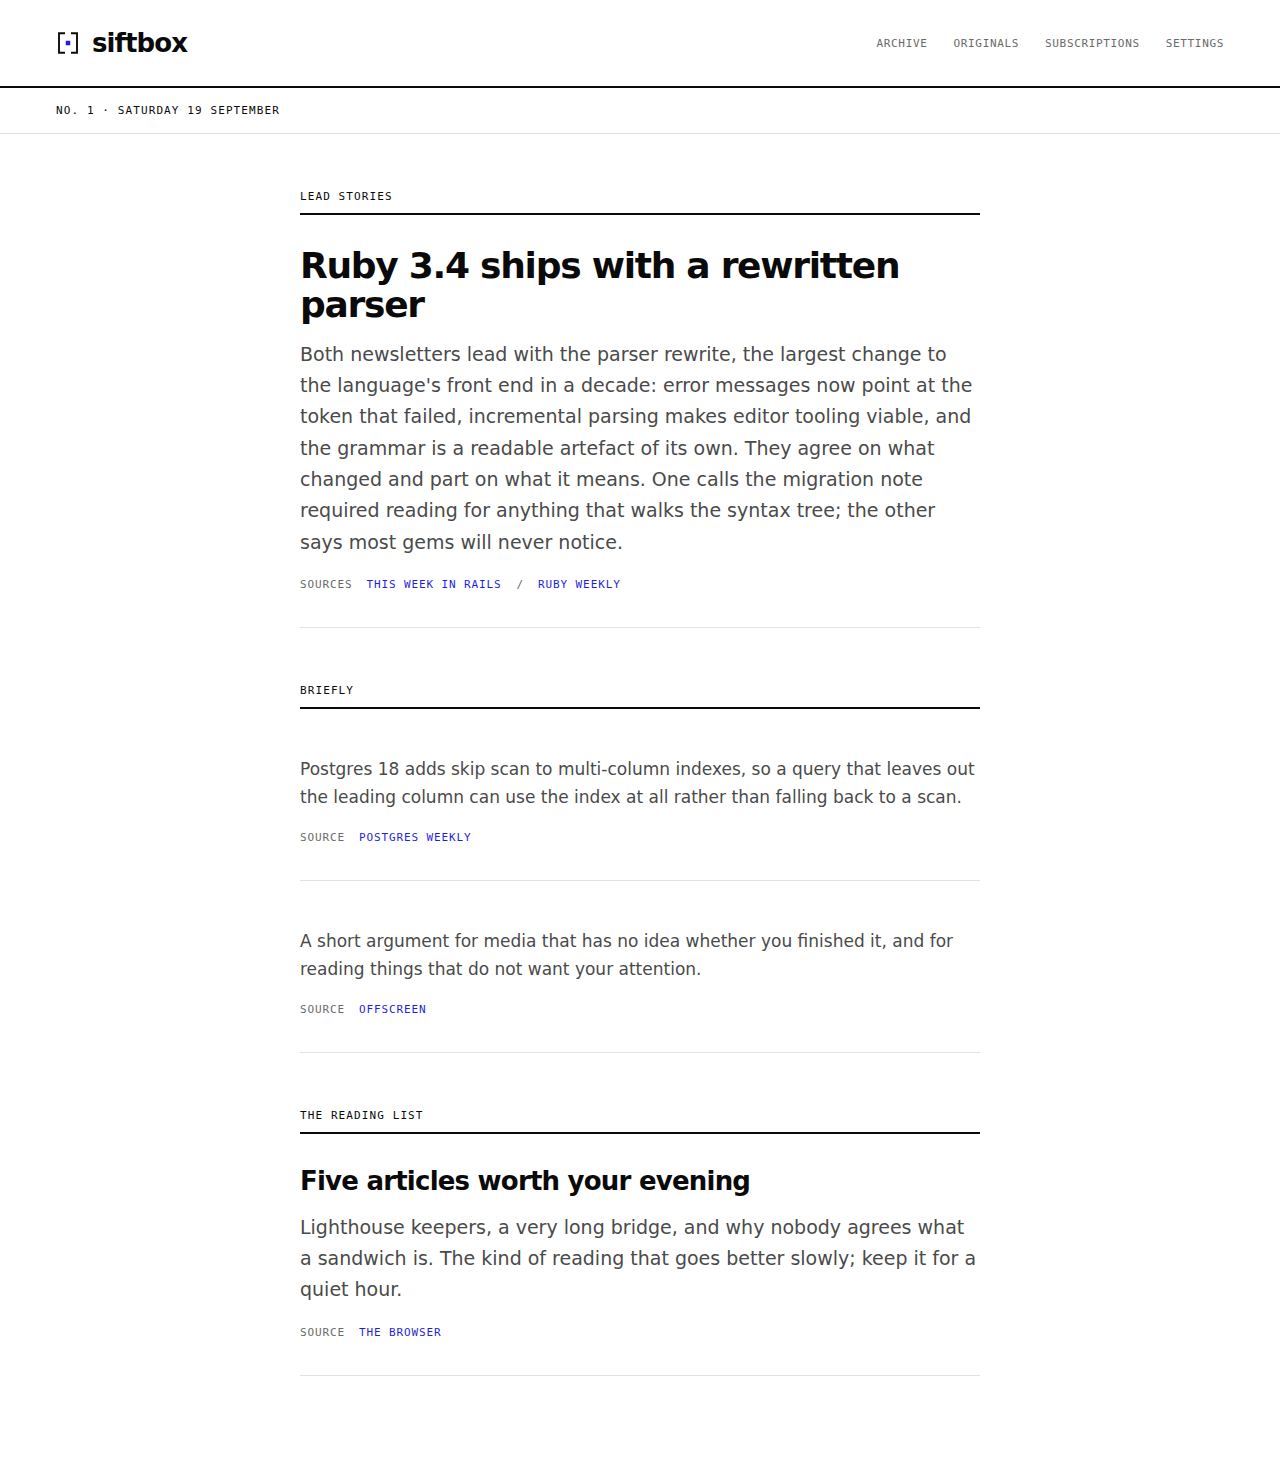
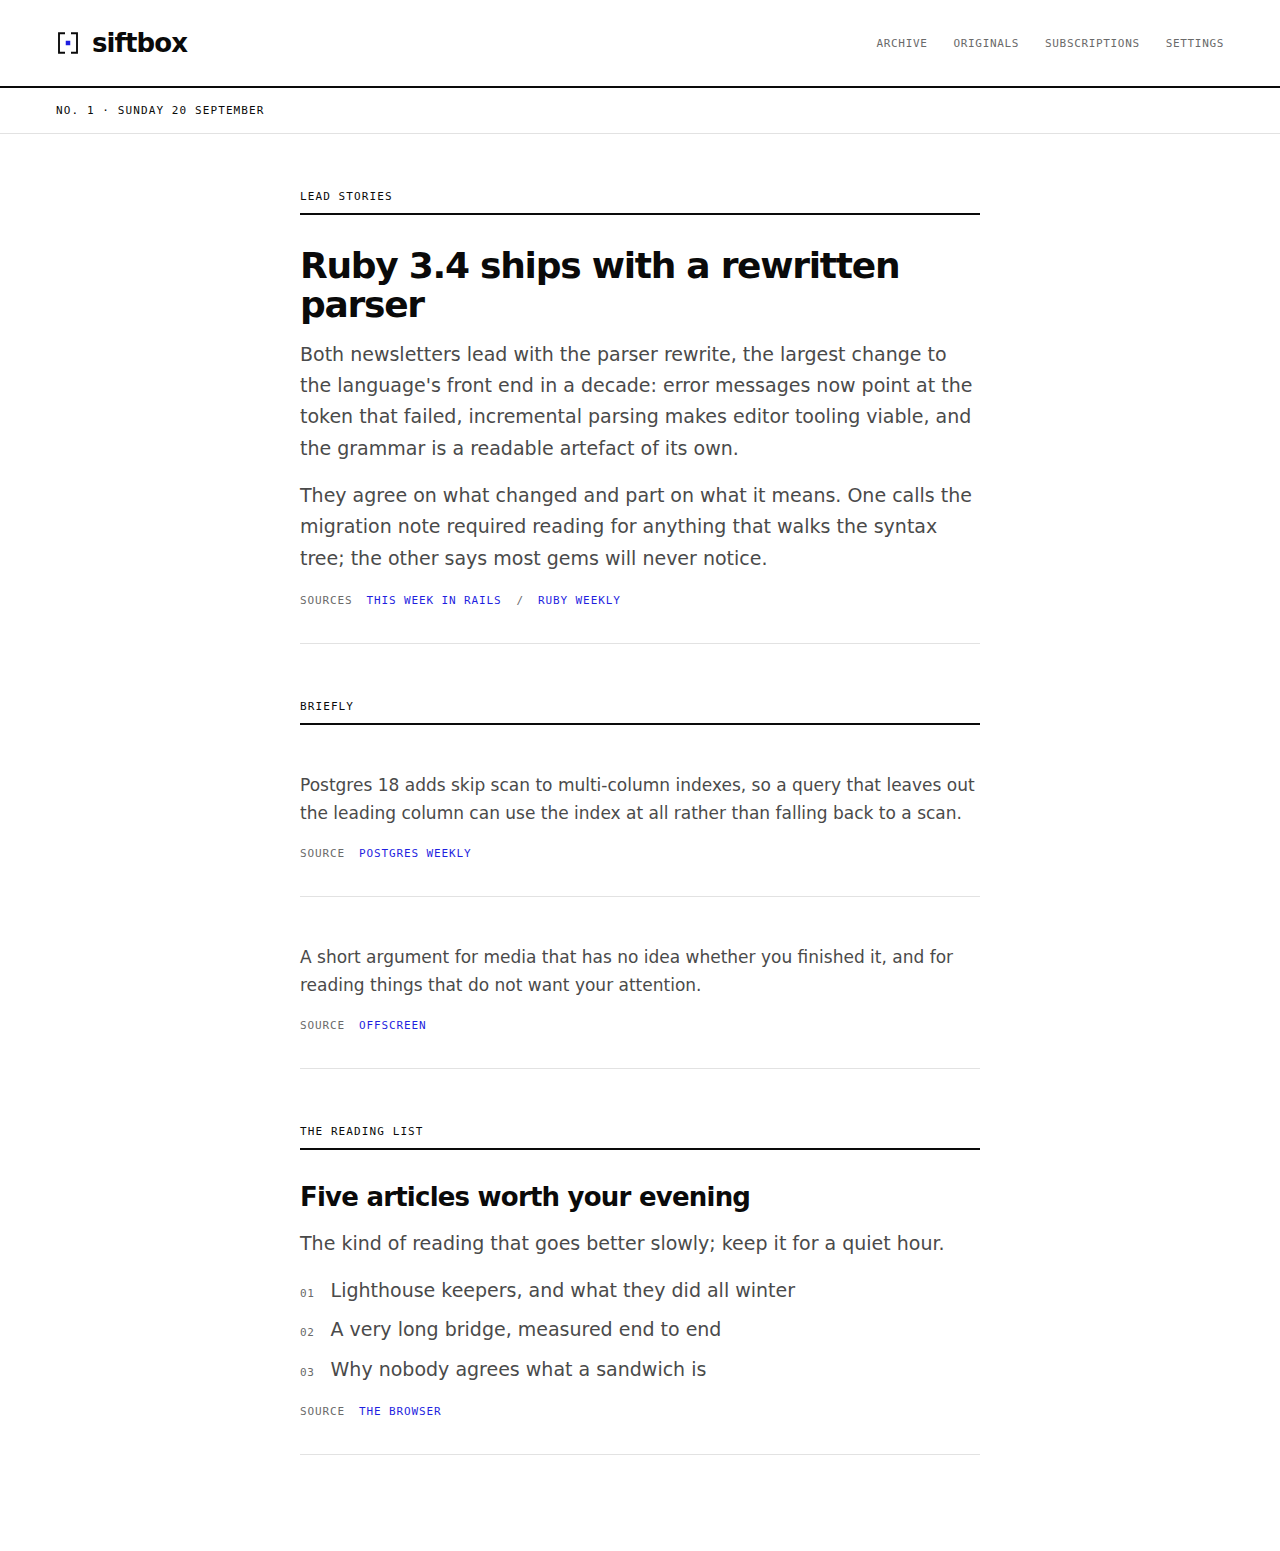
Fix six findings from the review of the open-sourcing work (#58)
The serious one was in the deploy runbook. It told the operator that the old
secret_key_base could not be recovered once the credentials file was gone,
and said ten lines later that the master key could go. Both halves are wrong
in the same direction: the encrypted blob is still in git history and
decrypts with that key, so following the page in order is what destroys the
value, and the cost is the only reader signed out of an app with no sign-up
flow. The step now gives both recovery paths and an explicit ordering, with
the key going last.

SampleEdition had no guard of its own, only on its rake task, while lib/ is
eager loaded, so a production console could have written a fabricated
edition into the live archive under the next real number.

The sample edition also miscited: its lead story said both sources led with
the parser rewrite, and the second was about Solid Queue. That edition is
the README's screenshot, on a project whose claim is that every story traces
back to its sources. The second newsletter now covers the same release from
the Rails side, and the screenshot is regenerated from it.

Also: both halves of the credentials pair are ignored again, for the two
different reasons the comment now gives; four hand-rolled copies of the same
ENV set-and-restore helper became one, and one of them had no ensure at all;
and the deploy config no longer claims every SIFTBOX_* value is a
placeholder when the time zone deliberately is not.
[…]

diff --git a/lib/sample_edition.rb b/lib/sample_edition.rb
@@ -15,8 +15,19 @@
 # citations and all, and one save!, so there is no moment at which an
 # edition exists without its stories.
 #
-# Development material. Nothing the reader's browser reaches calls it.
+# Development material. Nothing the reader's browser reaches calls it, and
+# #write refuses anywhere but development or test.
 class SampleEdition
+  # What a call from anywhere but development or test gets. config.autoload_lib
+  # puts lib/ on the eager-load path, so this class is resident in every
+  # production process however development-only the task that calls it is, and
+  # a console there is one line from filing a fabricated edition in the live
+  # archive — taking the next real edition number and the day's unique
+  # published_on with it, so the morning's real edition cannot be written at
+  # all. lib/tasks/sample_data.rake keeps its own guard; a guard the class
+  # carries holds wherever it is called from instead.
+  class OutsideDevelopment < StandardError; end
+
   # Which newsletters each story cites, by position in the list the task
   # creates: the lead reads the first two, which both carry the parser
   # release; each Briefly line reads one; the reading list entry reads the
@@ -72,6 +83,8 @@ class SampleEdition
   end
 
   def write
+    refuse_outside_development
+
     edition = Edition.new(identity.merge(PROVENANCE))
     stories.each_with_index { |story, index| build(edition, story, index + 1) }
 
@@ -82,6 +95,14 @@ class SampleEdition
   private
 
   attr_reader :newsletters
+
+  # local? rather than development?, because the suite is where the refusal
+  # is proved and the class has to be able to write inside it.
+  def refuse_outside_development
+    return if Rails.env.local?
+
+    raise OutsideDevelopment, "sample editions are development material"
+  end
 
   # STORIES, once it is known to cover the list it was handed. The coupling
   # is by position across two files, so a newsletter added to the task's

diff --git a/spec/requests/action_mailbox_ingress_spec.rb b/spec/requests/action_mailbox_ingress_spec.rb
@@ -23,30 +23,22 @@ RSpec.describe "Action Mailbox ingress" do
   #
   # The ingress stores the message and enqueues routing rather than routing
   # inline, so the job has to run for a Newsletter to exist.
-  def armed(&delivery)
-    ActionMailbox.ingress = :postmark
-
-    with_ingress_password("ingress-password") do
-      perform_enqueued_jobs(&delivery)
-    end
-  ensure
-    ActionMailbox.ingress = nil
-  end
-
+  #
   # Action Mailbox still reads action_mailbox.ingress_password first and only
   # falls back to RAILS_INBOUND_EMAIL_PASSWORD, but there are no credentials to
   # hold one any more, so the fallback is the whole mechanism and the variable
   # is what decides in production too. It is read per request, so a value set
   # for the example's duration is what the controller authenticates against.
-  # Set and put back rather than stubbed, the way `through` does in
-  # spec/jobs/edition/composition_job_spec.rb: ENV is process-wide.
-  def with_ingress_password(password)
-    original = ENV["RAILS_INBOUND_EMAIL_PASSWORD"]
-    ENV["RAILS_INBOUND_EMAIL_PASSWORD"] = password
+  # Set and put back rather than stubbed, through
+  # spec/support/environment_helper.rb: ENV is process-wide.
+  def armed(&delivery)
+    ActionMailbox.ingress = :postmark
 
-    yield
+    with_environment("RAILS_INBOUND_EMAIL_PASSWORD" => "ingress-password") do
+      perform_enqueued_jobs(&delivery)
+    end
   ensure
-    ENV["RAILS_INBOUND_EMAIL_PASSWORD"] = original
+    ActionMailbox.ingress = nil
   end
 
   it "turns an authenticated Postmark delivery into a newsletter" do

diff --git a/spec/db/seeds_spec.rb b/spec/db/seeds_spec.rb
@@ -6,20 +6,15 @@ require "rails_helper"
 RSpec.describe "db/seeds" do
   # The seeds read the two variables as they run, so a value set for the
   # example's duration is what they see. Set and put back rather than stubbed,
-  # the way `through` does in spec/jobs/edition/composition_job_spec.rb: ENV is
-  # process-wide, and an example that left a reader behind would decide what
-  # every later one seeds. Assigning nil deletes the variable, which is how the
-  # absent cases are written.
-  def with_reader(email_address:, password:)
-    original_email_address = ENV["SIFTBOX_READER_EMAIL"]
-    original_password = ENV["SIFTBOX_READER_PASSWORD"]
-    ENV["SIFTBOX_READER_EMAIL"] = email_address
-    ENV["SIFTBOX_READER_PASSWORD"] = password
-
-    yield
-  ensure
-    ENV["SIFTBOX_READER_EMAIL"] = original_email_address
-    ENV["SIFTBOX_READER_PASSWORD"] = original_password
+  # through spec/support/environment_helper.rb, which is where the putting back
+  # lives: ENV is process-wide, and an example that left a reader behind would
+  # decide what every later one seeds. nil is how the absent cases are written.
+  def with_reader(email_address:, password:, &seeding)
+    with_environment(
+      "SIFTBOX_READER_EMAIL" => email_address,
+      "SIFTBOX_READER_PASSWORD" => password,
+      &seeding
+    )
   end
 
   # Seeds report to stdout, which is worth having during a deploy and not in

diff --git a/spec/support/environment_helper.rb b/spec/support/environment_helper.rb
@@ -1,0 +1,26 @@
+# Sets environment variables for the length of a block and puts them back
+# afterwards, whatever the block does.
+#
+# ENV is process-wide and the suite is one process, so a variable an example
+# sets and fails to restore decides what every example after it sees — a
+# reader seeded into the wrong database, a key present where the example
+# wanted it absent. Four specs each carried their own copy of this, which was
+# four ensure blocks to get wrong; this is the one of them.
+#
+# Assigning nil deletes the variable, which is both how an example asks for
+# one to be absent and how a variable that was absent to begin with is put
+# back.
+module EnvironmentHelper
+  def with_environment(values)
+    originals = values.keys.index_with { |name| ENV[name] }
+    values.each { |name, value| ENV[name] = value }
+
+    yield
+  ensure
+    originals.each { |name, value| ENV[name] = value }
+  end
+end
+
+RSpec.configure do |config|
+  config.include EnvironmentHelper
+end

diff --git a/spec/lib/sample_edition_spec.rb b/spec/lib/sample_edition_spec.rb
@@ -42,6 +42,18 @@ RSpec.describe SampleEdition do
       .to match_array(Edition::Story::SECTIONS)
   end
 
+  # The class is eager-loaded in production whatever calls it, so the refusal
+  # is the only thing between a console there and a fabricated edition in the
+  # live archive. SampleEdition::OutsideDevelopment says what that costs.
+  it "refuses to write anywhere but a local environment" do
+    newsletters = sample_newsletters(5)
+    allow(Rails).to receive(:env)
+      .and_return(ActiveSupport::EnvironmentInquirer.new("production"))
+
+    expect { SampleEdition.new(newsletters).write }
+      .to raise_error(SampleEdition::OutsideDevelopment)
+  end
+
   # The one column that says how an edition came to read this way. A row the
   # model never wrote must never claim a model wrote it.
   it "marks the edition as a sample" do

diff --git a/spec/jobs/edition/composition_job_spec.rb b/spec/jobs/edition/composition_job_spec.rb
@@ -47,14 +47,10 @@ RSpec.describe Edition::CompositionJob do
   # back because Edition::Draft reads it on the way to building the client it
   # is about to be given instead, and it fetches rather than reads: absent, as
   # it is here, the example fails on a KeyError about the variable.
-  def through(client)
-    key = ENV["ANTHROPIC_API_KEY"]
-    ENV["ANTHROPIC_API_KEY"] = "not-a-key"
+  def through(client, &composing)
     allow(Anthropic::Client).to receive(:new).and_return(client)
 
-    yield
-  ensure
-    ENV["ANTHROPIC_API_KEY"] = key
+    with_environment("ANTHROPIC_API_KEY" => "not-a-key", &composing)
   end
 
   it "publishes an edition covering the newsletters that have arrived" do

diff --git a/spec/models/edition/draft_spec.rb b/spec/models/edition/draft_spec.rb
@@ -202,11 +202,10 @@ RSpec.describe Edition::Draft do
   # suite included. Read where it is used, a missing key is one job failing
   # with the name of the variable it wanted.
   it "looks the API key up where it uses it, not when it is built" do
-    key = ENV.delete("ANTHROPIC_API_KEY")
     draft = Edition::Draft.new(Edition::Prompt.new(newsletters))
 
-    expect { draft.write }.to raise_error(KeyError, /ANTHROPIC_API_KEY/)
-
-    ENV["ANTHROPIC_API_KEY"] = key
+    with_environment("ANTHROPIC_API_KEY" => nil) do
+      expect { draft.write }.to raise_error(KeyError, /ANTHROPIC_API_KEY/)
+    end
   end
 end

diff --git a/docs/deploying.md b/docs/deploying.md
@@ -121,16 +121,48 @@ every delivery is refused.
 `SECRET_KEY_BASE` is generated only for a deployment that has never run. One
 that is already running carries its existing value across, because a new one
 signs the reader out and voids any password-reset link in flight. That value
-used to be derived from the encrypted credentials, so read it out before this
-release removes them — `bin/rails credentials:show` on the machine that holds
-`config/master.key`, the `secret_key_base` key — and put it in
-`.kamal/secrets-common`. Once the credentials file is gone it cannot be
-recovered, and the sign-out is the only way through.
+used to be derived from the encrypted credentials, so it has to come out of
+them and into `.kamal/secrets-common` before the first deploy of this release.
 
-`config/master.key` is no part of a deploy any more, and neither is
-`RAILS_MASTER_KEY`. A clone made before the credentials file was removed may
-still hold a key; it is gitignored, nothing reads it, and it can go once the
-values above are out.
+It is not a now-or-never read. What opens the credentials is
+`config/master.key`, and the encrypted file is in the git history whether or
+not it is still in the working tree, so the value is recoverable for as long
+as that key exists. Which of the two commands you need depends only on whether
+this release has reached the machine you are standing on.
+
+Before it has, the file is still there:
+
+```bash
+bin/rails credentials:show
+```
+
+After it has, the file is gone from the working tree and unchanged in the
+history. Put the last committed copy back for the length of the command:
+
+```bash
+removal=$(git log -1 --format=%H --diff-filter=D -- config/credentials.yml.enc)
+git show "$removal^:config/credentials.yml.enc" > config/credentials.yml.enc
+bin/rails credentials:show
+rm config/credentials.yml.enc
+```
+
+`config/credentials.yml.enc` is gitignored, so that copy cannot be committed
+back by accident — remove it anyway once you have the value. Either command
+prints the decrypted file; the key to copy is `secret_key_base`, and it goes
+into `.kamal/secrets-common` under that name in capitals.
+
+**`config/master.key` goes last, and not until a deploy has proved the
+values.** It is no part of a deploy any more, and neither is
+`RAILS_MASTER_KEY`: a clone made before the credentials file was removed may
+still hold a key, it is gitignored, and nothing in the app reads it. But it is
+also the only thing that opens the blob in the history, so deleting it is
+precisely what makes the old `secret_key_base` unrecoverable — the file being
+gone from the working tree does not. The order is: read the values out, write
+them into `.kamal/secrets-common`, deploy, and sign in at the end of the smoke
+test in step 8, which is what proves `SECRET_KEY_BASE` reached the container.
+Then the key can go. Delete it before that and the only way forward is a fresh
+`SECRET_KEY_BASE`, which signs the reader out of an app with no sign-up flow
+and voids any password-reset link already in flight.
 
 ## 4. config/deploy.production.yml
 
